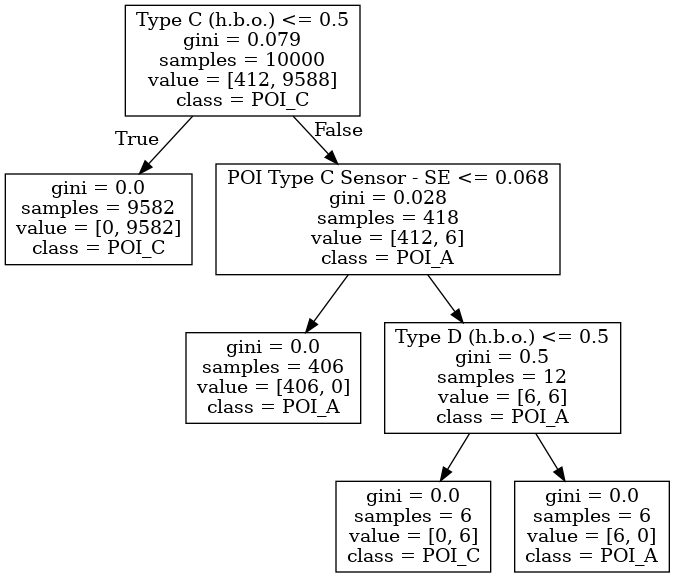
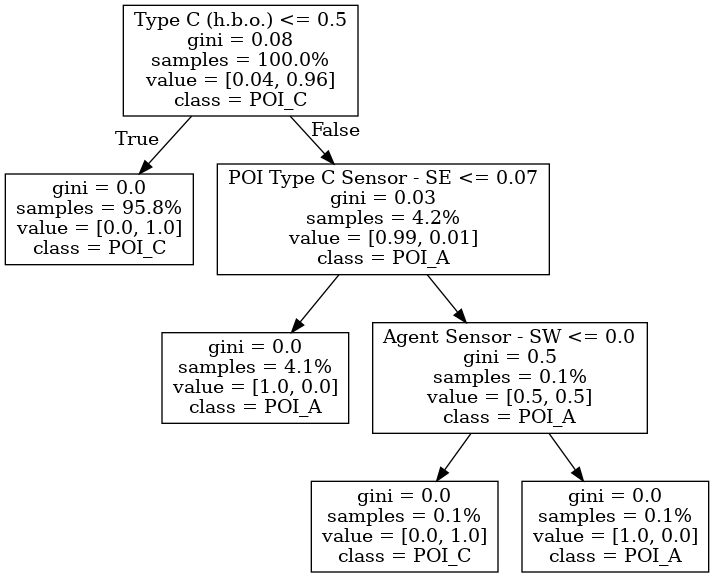
precision and prop put in show_tree

diff --git a/decision_trees.py b/decision_trees.py
@@ -14,7 +14,7 @@ from sklearn.tree import export_text
 
 def show_tree(tree, features, c_names,  path) :
     f = io.StringIO()
-    export_graphviz(tree, out_file=f, feature_names=features, class_names=c_names)
+    export_graphviz(tree, out_file=f, feature_names=features, precision=2, proportion=True, class_names=c_names)
     pydotplus.graph_from_dot_data(f.getvalue()).write_png(path)
     img = imageio.imread(path)
     plt.rcParams["figure.figsize"] = (20, 20)
